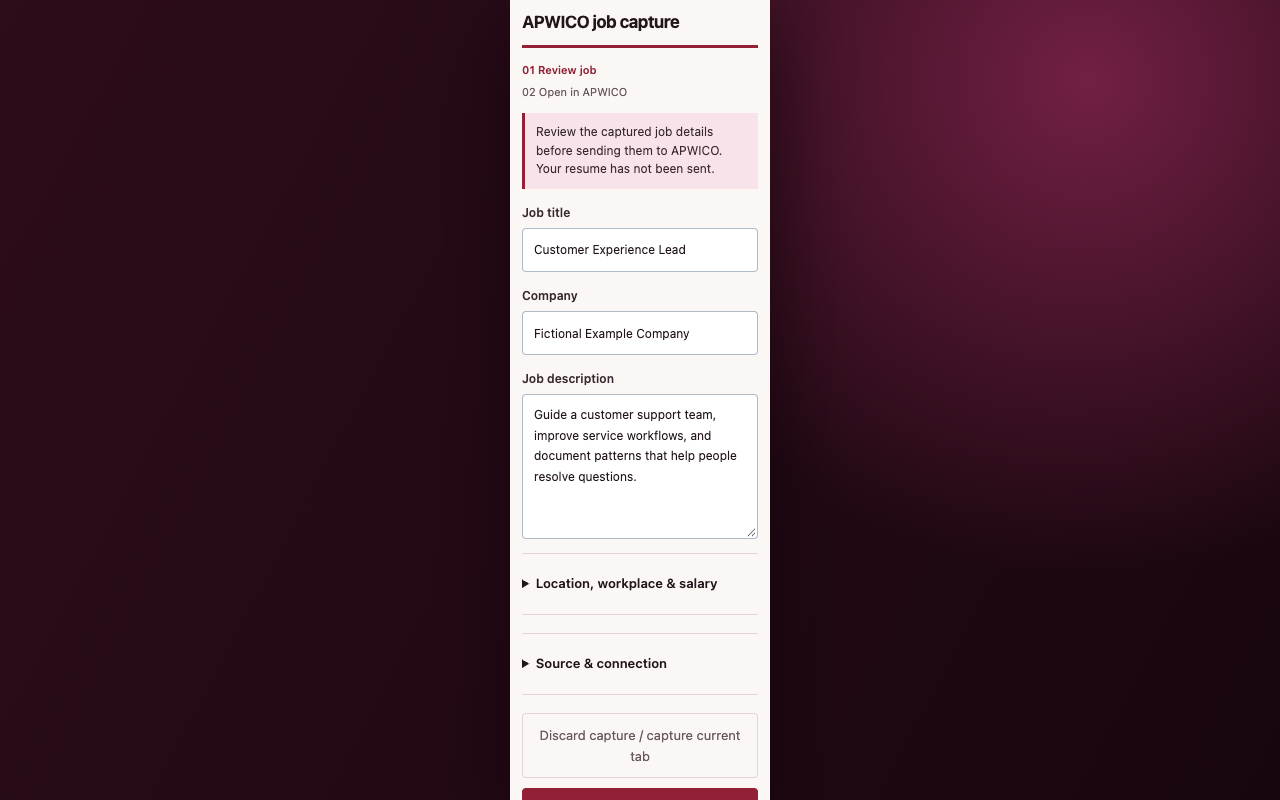
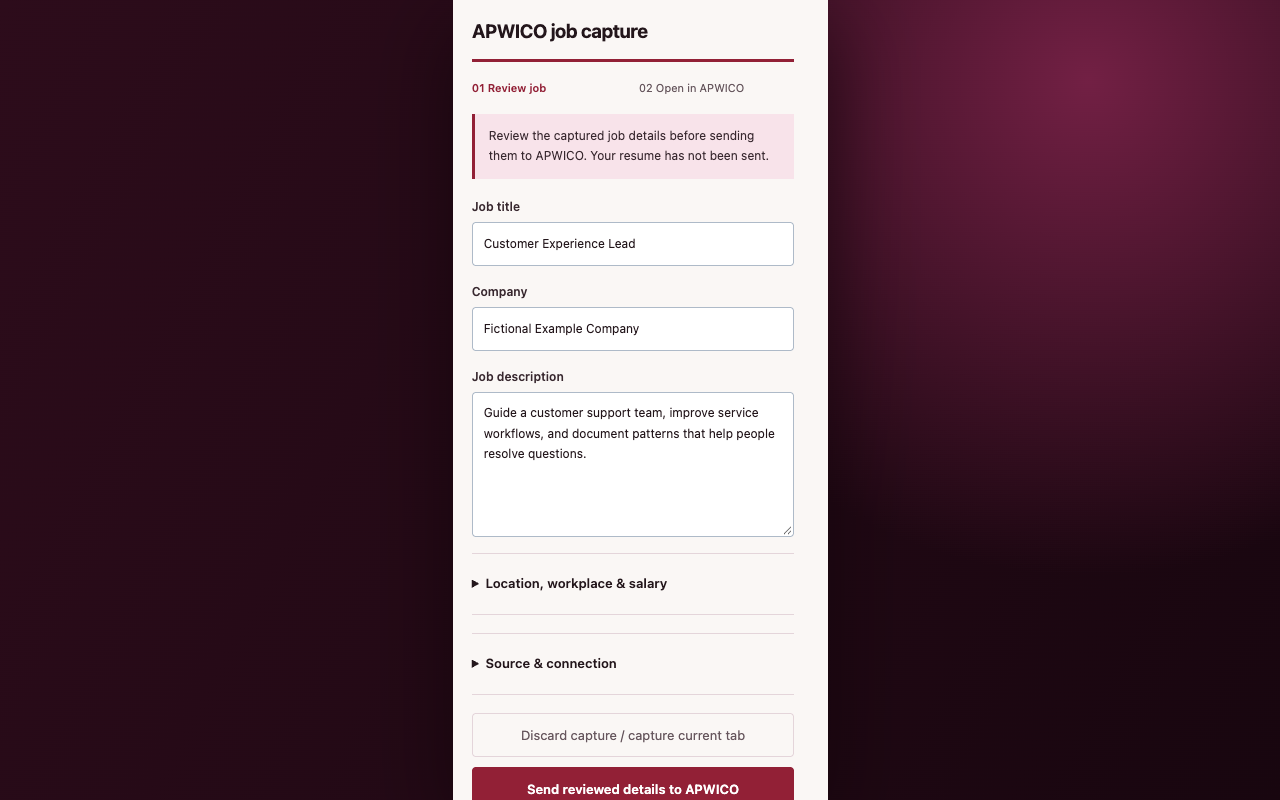
fix: correct Chrome action popup sizing

Changed region(s): [[0.3438, 0.0, 0.6562, 1.0]]

diff --git a/tests/extension/installed.spec.ts b/tests/extension/installed.spec.ts
@@ -1,9 +1,10 @@
 import {test,expect,chromium} from '@playwright/test';
 import AxeBuilder from '@axe-core/playwright';
+import {writeFile} from 'node:fs/promises';
 import {resolve} from 'node:path';
 import type {ExtractResult} from '../../apps/extension/src/lib/types';
 
-test('popup remains usable at realistic narrow Chrome side-panel widths',async()=>{
+test('popup remains usable at its bounded Chrome action width',async()=>{
  const extensionPath=resolve('apps/extension');
  const context=await chromium.launchPersistentContext('',{channel:'chromium',headless:true,args:[`--disable-extensions-except=${extensionPath}`,`--load-extension=${extensionPath}`]});
  try {
@@ -11,7 +12,7 @@ test('popup remains usable at realistic narrow Chrome side-panel widths',async()
   const id=new URL(worker.url()).host;
   const popup=await context.newPage();
   await popup.goto(`chrome-extension://${id}/popup.html`);
-  for(const width of [160,180,220,260,320,360]){
+  for(const width of [360,400]){
    await popup.setViewportSize({width,height:720});
    await expect(popup.getByRole('heading',{name:'APWICO job capture'})).toBeVisible();
    await expect(popup.locator('.notice')).toBeVisible();
@@ -33,15 +34,92 @@ test('popup remains usable at realistic narrow Chrome side-panel widths',async()
    });
    expect(layout.scrollWidth).toBeLessThanOrEqual(layout.viewport);
    expect(layout.headingHeight).toBeLessThan(60);
-   expect(layout.inputWidth).toBeGreaterThanOrEqual(width-40);
-   expect(layout.buttonWidth).toBeGreaterThanOrEqual(width-40);
+   expect(layout.inputWidth).toBeGreaterThanOrEqual(320);
+   expect(layout.buttonWidth).toBeGreaterThanOrEqual(320);
    expect(layout.buttonHeight).toBeGreaterThanOrEqual(44);
-   if(width===160) await popup.screenshot({path:'/tmp/apwico-extension-side-panel-160.png',fullPage:true});
-   if(width===320) await popup.screenshot({path:'/tmp/apwico-extension-side-panel-320.png',fullPage:true});
+   if(width===360) await popup.screenshot({path:'/tmp/apwico-extension-popup-360.png',fullPage:true});
   }
   await popup.getByLabel('Job title',{exact:true}).focus();
   await expect(popup.getByLabel('Job title',{exact:true})).toBeFocused();
   expect((await new AxeBuilder({page:popup}).analyze()).violations).toEqual([]);
+ } finally {await context.close();}
+});
+
+test('toolbar popup declares a usable intrinsic Chrome action width', async () => {
+ const extensionPath=resolve('apps/extension');
+ const context=await chromium.launchPersistentContext('',{channel:'chromium',headless:true,args:[`--disable-extensions-except=${extensionPath}`,`--load-extension=${extensionPath}`]});
+ try {
+  const worker=context.serviceWorkers()[0] || await context.waitForEvent('serviceworker');
+  const id=new URL(worker.url()).host;
+  const popup=await context.newPage();
+  await popup.goto(`chrome-extension://${id}/popup.html`);
+  const intrinsic=await popup.evaluate(()=>{
+   const html=getComputedStyle(document.documentElement);
+   const body=document.body.getBoundingClientRect();
+   return {declaredWidth:html.width,bodyWidth:body.width};
+  });
+  expect(intrinsic.declaredWidth).toBe('360px');
+  expect(intrinsic.bodyWidth).toBe(360);
+  await expect(popup.locator('input').first()).toHaveCSS('min-width','0px');
+  await expect(popup.locator('button').last()).toHaveCSS('min-width','0px');
+ } finally {await context.close();}
+});
+
+test('real Chrome toolbar action opens a readable popup instead of min-content collapse', async () => {
+ const extensionPath=resolve('apps/extension');
+ const context=await chromium.launchPersistentContext('',{channel:'chromium',headless:true,args:['--enable-unsafe-extension-debugging',`--disable-extensions-except=${extensionPath}`,`--load-extension=${extensionPath}`]});
+ try {
+  const worker=context.serviceWorkers()[0] || await context.waitForEvent('serviceworker');
+  const id=new URL(worker.url()).host;
+  const url='https://job-boards.greenhouse.io/example/jobs/123';
+  await context.route(url,route=>route.fulfill({contentType:'text/html',body:'<h1>Controlled job</h1>'}));
+  await context.route('https://boards-api.greenhouse.io/**',route=>route.fulfill({contentType:'application/json',headers:{'access-control-allow-origin':'*'},body:JSON.stringify(route.request().url().includes('/jobs/')?{id:123,title:'Toolbar support role',content:'<p>Support customers.</p>'}:{name:'Example'})}));
+  const fixture=await context.newPage(); await fixture.goto(url); await fixture.bringToFront();
+  const browser=context.browser(); if(!browser) throw new Error('Expected a browser for toolbar verification');
+  const cdp=await browser.newBrowserCDPSession();
+  const tabs=(await cdp.send('Target.getTargets',{filter:[{type:'tab'}]})).targetInfos;
+  const tab=tabs.find(target=>target.url===url); if(!tab) throw new Error('Expected controlled job tab');
+  await cdp.send('Extensions.triggerAction',{id,targetId:tab.targetId});
+  let popupTarget;
+  for(let attempt=0;attempt<50&&!popupTarget;attempt++){
+   popupTarget=(await cdp.send('Target.getTargets')).targetInfos.find(target=>target.url===`chrome-extension://${id}/popup.html`);
+   if(!popupTarget) await new Promise(resolve=>setTimeout(resolve,100));
+  }
+  if(!popupTarget) throw new Error('Expected the real Chrome action popup target');
+  const {sessionId}=await cdp.send('Target.attachToTarget',{targetId:popupTarget.targetId,flatten:false});
+  let commandId=0;
+  const send=async<T>(method:string,params:Record<string,unknown>={}):Promise<T>=>{
+   const id=++commandId;
+   const response=new Promise<T>((resolve,reject)=>{
+    const listener=(event:{sessionId:string;message:string})=>{
+     if(event.sessionId!==sessionId)return;
+     const message=JSON.parse(event.message);
+     if(message.id!==id)return;
+     cdp.off('Target.receivedMessageFromTarget',listener);
+     if(message.error)reject(new Error(message.error.message)); else resolve(message.result as T);
+    };
+    cdp.on('Target.receivedMessageFromTarget',listener);
+   });
+   await cdp.send('Target.sendMessageToTarget',{sessionId,message:JSON.stringify({id,method,params})});
+   return response;
+  };
+  type PopupLayout={title?:string;innerWidth:number;outerWidth:number;scrollWidth:number;headingHeight?:number;inputWidth?:number;buttonWidth?:number};
+  let layout:PopupLayout|undefined;
+  for(let attempt=0;attempt<50&&!layout?.title;attempt++){
+   const evaluated=await send<{result:{value:PopupLayout}}>('Runtime.evaluate',{expression:`(()=>{const input=document.querySelector('input');const submit=document.querySelector('button[type="submit"]');return{title:input?.value,innerWidth,outerWidth,scrollWidth:document.documentElement.scrollWidth,headingHeight:document.querySelector('h1')?.getBoundingClientRect().height,inputWidth:input?.getBoundingClientRect().width,buttonWidth:submit?.getBoundingClientRect().width}})()`,returnByValue:true});
+   layout=evaluated.result.value;
+   if(!layout?.title)await new Promise(resolve=>setTimeout(resolve,100));
+  }
+  expect(layout?.title).toBe('Toolbar support role');
+  if(!layout)throw new Error('Expected popup layout');
+  expect(layout.innerWidth).toBeGreaterThanOrEqual(320);
+  expect(layout.innerWidth).toBeLessThanOrEqual(400);
+  expect(layout.scrollWidth).toBeLessThanOrEqual(layout.innerWidth);
+  expect(layout.headingHeight).toBeLessThan(60);
+  expect(layout.inputWidth).toBeGreaterThanOrEqual(280);
+  expect(layout.buttonWidth).toBeGreaterThanOrEqual(280);
+  const screenshot=await send<{data:string}>('Page.captureScreenshot',{format:'png',captureBeyondViewport:false});
+  await writeFile('/tmp/apwico-extension-024-real-toolbar-popup.png',Buffer.from(screenshot.data,'base64'));
  } finally {await context.close();}
 });
 

diff --git a/apps/extension/popup.css b/apps/extension/popup.css
@@ -1,6 +1,13 @@
 :root{--ink:#23161b;--text:#38282f;--muted:#66565d;--action:#922036;--action-hover:#701528;--line:#e4d5da;--canvas:#faf7f5;--blush:#f8e3ea}
 *{box-sizing:border-box}
-html,body{width:100%;min-width:0;max-width:100%;margin:0;overflow-x:hidden}
+/*
+ * This is a Chrome toolbar action popup, not a resizable side-panel document.
+ * A percentage-only root has no intrinsic inline size while Chrome is calculating
+ * the popup window, so 0.2.3 collapsed to its min-content width (~110px). Give
+ * Chrome a bounded preferred viewport; all descendants remain fluid inside it.
+ */
+html{width:360px;min-width:0;margin:0;overflow-x:hidden}
+body{width:100%;min-width:0;margin:0;overflow-x:hidden}
 body{font:13px/1.6 -apple-system,BlinkMacSystemFont,"Segoe UI",sans-serif;color:var(--text);background:var(--canvas);overflow-wrap:break-word;word-break:normal}
 #app{width:100%;min-width:0;padding:clamp(12px,5vw,20px)}
 h1{font-size:19px;line-height:1.3;letter-spacing:-.5px;margin:0 0 18px;padding:0 0 16px;border-bottom:3px solid var(--action);color:var(--ink)}

diff --git a/docs/redesign/VALIDATION_PENDING_RECONCILIATION_2026-10-05.md b/docs/redesign/VALIDATION_PENDING_RECONCILIATION_2026-10-05.md
@@ -37,7 +37,7 @@ not failed validation.
 | 20. Sign-in/recovery continuation | Content-free continuation survives sign-in/recovery, including a genuine new-tab provider link; account changes fail closed and cannot restore another owner's object. | The bounded cleanup is live. A fresh real recovery email displayed APWICO, opened the production new-password flow in a new tab and left no consumed `code` in the visible URL. Supabase SMTP reloaded with sender name APWICO; owner-switch and continuation automation remains green. | **COMPLETE.** Provider identity, real new-tab return and URL cleanup are now verified. |
 | 21. Document/storage concepts | People can distinguish master versus job-specific documents and local versus account-saved state, including naming and active-state cues. | On a physical iPhone after deployment, the owner identified the active master and browser-session storage without coaching. The isolated sample then demonstrated—and the owner understood—that tailoring creates a separate fictional version while its master remains unchanged. | **COMPLETE.** The corrected production state passes normal-person comprehension. |
 | 22. Responsive/accessibility workflow | Critical workflows are keyboard, focus, zoom, reduced-motion, narrow-screen and assistive-technology usable without obscured or overflowing controls. | Existing keyboard, focus, error/status, zoom, reduced-motion, viewport and axe evidence remains valid. Physical iPhone layout passed, and real VoiceOver announced the active master, browser-session storage and primary editing controls in usable order without trapping. | **COMPLETE.** Physical and assistive-technology evidence now supplements the automated gates. |
-| 37. Public extension experience | The APWICO extension package/listing accurately describes published behavior and a verified public install URL/version is available. | Google approved and publicly serves 0.2.3 with the verified APWICO Wine + Blush listing assets. The Store installation is enabled, permissions/privacy match, and supported Greenhouse capture populated title, company and description. A real 2026-10-10 Chrome check nevertheless reproduced pathological wrapping in the actual narrow action panel, including the unsupported-site state. | **VALIDATION PENDING.** Publication is complete, but the real installed narrow-panel experience still fails production-quality validation. |
+| 37. Public extension experience | The APWICO extension package/listing accurately describes published behavior and a verified public install URL/version is available. | Google publicly serves 0.2.3. The reproduced toolbar-popup collapse is fixed and real-Chrome verified in packaged 0.2.4 with unchanged permissions/privacy, supported capture and a readable unsupported state. The Store's verified individual-trader address and phone disclosure was traced to Google Payments. | **VALIDATION PENDING.** 0.2.4 is not submitted or published, and truthful non-residential trader contacts still require owner establishment and reverification. |
 | 45. Performance | Public entry routes meet the established lab budgets and protections; representative field and low-powered-device behavior is validated without invented metrics. | Lab budgets, deferred loading, data-saver/reduced-motion and responsive gates pass. Vercel reports desktop 100/295 events and mobile 100/17 events. | **VALIDATION PENDING.** Metric-level LCP/INP/CLS and physical low-powered-device evidence remain unavailable; the small sample is not treated as failure. |
 | 51. First occupation set | The first portfolio is selected from defensible demand/product evidence, spans relevant work types and geographies, and records why each occupation was chosen. | Nine-category portfolio and dated official external evidence are documented in `G7_EVIDENCE_CLOSURE_2026-09-30.md`; Search Console is verified but still processing/no-data. | **VALIDATION PENDING.** Meaningful internal/Search Console demand evidence has not matured; no ranking is invented. |
 | 52. Occupation hubs | Initial hubs provide reviewed, occupation-specific evidence guidance, examples, templates and product entry without invented requirements or credentials. | Nine substantive sourced/indexable hubs pass content, route, expiry, accessibility and responsive checks. | **VALIDATION PENDING.** Qualified occupation/regulator review is not recorded. |
@@ -51,7 +51,8 @@ the blueprint work itself requires real advisors, partner agreements, an institu
 pilot and a preregistered adequately sampled research result. Those are legitimate
 post-launch programs and are not release blockers. There is no current **BLOCKED** task;
 Task 37 is no longer awaiting external review. It remains validation pending because
-the approved public 0.2.3 package still fails the real installed narrow-panel check.
+the verified 0.2.4 correction is not submitted/published and the public trader-contact
+privacy issue requires truthful owner-controlled replacement contact details.
 
 ## Evidence index
 
@@ -72,5 +73,6 @@ the approved public 0.2.3 package still fails the real installed narrow-panel ch
 
 ## Next actionable validation
 
-Task 37 is the next directly actionable item: correct the reproduced real-Chrome narrow
-action-panel layout, publish a verified patch, and repeat the installed public-version check.
+Task 37 is the next directly actionable item: establish truthful non-residential trader
+contacts, update/reverify them, submit 0.2.4 when authorized, and repeat the installed
+public-version check after Google approval.

diff --git a/docs/redesign/BLUEPRINT_STATUS.md b/docs/redesign/BLUEPRINT_STATUS.md
@@ -20,7 +20,7 @@ Every task is included exactly once:
 - **NOT STARTED (0):** none.
 - **BLOCKED (0):** none.
 
-Tasks 5, 46, 56 and 64 closed after the first live analytics/search/provider review, repeated production release validation, and verification of the current U.S.-only Stripe boundary. Tasks 58–61 are now Partial: operating structures and materials exist, but real advisors, agreements, institutional pilots, samples and research results do not. Task 37 remains Validation Pending: Google approved and publicly published APWICO Job Capture 0.2.3, but the 2026-10-10 real installed-extension check reproduced pathological wrapping at the actual narrow Chrome action-panel width. Public installation and supported Greenhouse capture work, but the published narrow-panel experience does not yet satisfy the task.
+Tasks 5, 46, 56 and 64 closed after the first live analytics/search/provider review, repeated production release validation, and verification of the current U.S.-only Stripe boundary. Tasks 58–61 are now Partial: operating structures and materials exist, but real advisors, agreements, institutional pilots, samples and research results do not. Task 37 remains Validation Pending: Google approved and publicly published APWICO Job Capture 0.2.3, but the 2026-10-10 real installed-extension check reproduced pathological wrapping. The intrinsic popup-width defect is corrected and real-Chrome verified in packaged 0.2.4, which is not submitted. The Store's required trader disclosure also publicly exposes the verified individual address and phone until truthful non-residential business contacts are established and reverified.
 
 The first 2026-10-05 reconciliation changed no counts and reconfirmed Tasks 1 and 4 as Complete. The subsequent consolidated real-world session closed Task 19 and found three genuine Task 20–22 issues: a consumed recovery code retained in the URL, a legacy recovery-email sender name, and an overlapping mobile document-identity panel. All three are now resolved in production. A fresh recovery link returned in a new tab with no consumed `code` in the address bar and the provider sender name was changed and reloaded as APWICO. On a physical iPhone, the owner correctly identified the active master and browser-session storage, understood from the isolated sample that job tailoring leaves the master unchanged, and passed a real VoiceOver traversal of the active-document panel and primary editing controls.
 
@@ -57,7 +57,7 @@ The first 2026-10-05 reconciliation changed no counts and reconfirmed Tasks 1 an
 | 32. Requirement-level Match | COMPLETE | Grouped source wording/evidence/status and stale-analysis handling pass server/database and private-route browser checks. |
 | 33. Free evidence continuation | COMPLETE | The explicitly reviewed job text—not resume text—is kept in bounded session storage and re-enters the shared review path before account save. |
 | 34–36. Decision and application workflow | COMPLETE | Owner-scoped decisions, manual application history, notes/contact and opt-in workspace follow-up dates pass database/unit and private-route browser coverage. |
-| 37. Public extension experience | VALIDATION PENDING | Google approved and publicly serves APWICO-branded MV3 version 0.2.3 with the verified Wine + Blush icon, screenshot and promo tile. The public Store installation is enabled under the published ID, permissions/privacy match the package and supported Greenhouse capture populates title, company and description. However, a real 2026-10-10 Chrome action-panel check at the browser's actual narrow width still wraps headings, labels and the unsupported-site message pathologically, so the public experience is not yet production-quality. |
+| 37. Public extension experience | VALIDATION PENDING | Google publicly serves APWICO-branded MV3 0.2.3. Packaged 0.2.4 fixes the percentage-only intrinsic toolbar-popup sizing defect and passes real-Chrome toolbar, supported-capture, unsupported-state, accessibility, permission/privacy and package checks without expanding permissions. It is not submitted. The verified individual-trader address and phone also remain public until the owner establishes truthful non-residential business contacts and authorizes Google Payments/trader reverification. |
 | 38–44. Public technical foundations | COMPLETE | Permanent capability/template URLs, narrow visible-content schema, explicit sitemap dates, per-route social cards, local fonts and cache/bundle contracts pass generation, source and route-policy checks. |
 | 45. Performance | VALIDATION PENDING | Lab budgets and low-power/data-saver/reduced-motion behavior pass. Vercel reports a 100 real-experience score for the available desktop and mobile samples, but metric-level LCP/INP/CLS and physical low-power validation remain unavailable. |
 | 46. Recurring quality | COMPLETE | The integrated quality gate has run repeatedly before and after release, including production smoke/error/provider checks; it remains the recurring release contract. |

diff --git a/docs/redesign/TASK_37_EXTENSION_024_CORRECTION_2026-10-10.md b/docs/redesign/TASK_37_EXTENSION_024_CORRECTION_2026-10-10.md
@@ -1,0 +1,58 @@
+# Task 37 — public-contact and 0.2.4 correction evidence
+
+Status: **VALIDATION PENDING**. APWICO Job Capture 0.2.3 remains the published
+version. Version 0.2.4 is packaged and verified locally but has not been uploaded or
+submitted.
+
+## Public developer information
+
+The public Store listing exposes the verified individual trader's legal name, street
+address and phone number. The Chrome Web Store publisher settings confirm that these
+values come from the publisher's verified Google Payments profile, not from the
+extension package or APWICO website.
+
+Chrome's trader-verification policy requires a trader's legal name, contact address and
+SMS-capable phone number to be public. The address can be replaced with another truthful,
+verifiable address in the same country through Google Payments. Changing the name,
+country or phone requires restarting trader verification. Reclassifying the account as
+non-trader would be a legal declaration and is not an acceptable privacy workaround.
+
+No repository or dashboard change can legitimately remove these disclosures while the
+publisher remains a verified trader. Closure requires the owner to provide or establish
+a real non-residential business/service address and an SMS-capable business phone number
+that the owner controls, then authorize the corresponding Payments-profile and trader-
+verification updates. No legal verification value was changed during this audit.
+
+## UI root cause and correction
+
+The extension is a Chrome toolbar action popup (`action.default_popup`), not a Chrome
+Side Panel API surface. Version 0.2.3 changed the popup root to percentage-only sizing.
+During Chrome's intrinsic popup-window calculation that left no preferred inline size,
+so Chrome collapsed the action UI to min-content width. `max-width: 100vw` reproduces the
+same circular sizing failure and is not a valid correction.
+
+Version 0.2.4 gives the action popup a bounded 360px preferred document width while every
+field, disclosure and button remains fluid within that viewport. No permission, host,
+privacy, extraction, delivery, storage or APWICO destination behavior changed.
+
+## Verification
+
+- Real Chrome toolbar invocation against a controlled Greenhouse page: PASS. The
+  packaged popup opened at 375px viewport / 360px body, with no horizontal overflow;
+  the first input and primary button were each 322.5px wide.
+- Supported capture: PASS. Title, company and job description populated through the real
+  toolbar `activeTab` path.
+- Unsupported/manual state: visually inspected at 360px; copy, inputs, disclosures and
+  actions remain readable with normal vertical scrolling.
+- Targeted action-popup layout and accessibility checks: 3/3 PASS.
+- Extraction, structured-data and destination-boundary regression set: 21/21 PASS.
+- Package allowlist/security/store-asset suite: 4/4 PASS (package inspection plus three
+  artifact tests). Production manifest remains limited to `activeTab`, `scripting`,
+  `storage`, `alarms` and the existing two APWICO/legacy app hosts.
+- Packaged real-Chrome toolbar check: PASS. Candidate version is exactly 0.2.4.
+- Refreshed 1280×800 Store screenshot uses the actual corrected popup width and the
+  existing Wine + Blush identity. Icon and promo geometry/identity are unchanged.
+
+The ordinary parallel extension run encountered the repository's known cold local-server
+timeouts; the bounded serial and real-toolbar checks above passed. No Store upload,
+submission, publication, unpublishing or main-site change occurred.

diff --git a/HANDOFF.md b/HANDOFF.md
@@ -4366,3 +4366,20 @@ closed-vocabulary diagnostic omission for account-master deletion. The remaining
   performed. See `docs/public-matcher-corrective-patch-2026-10-07.md`.
 - Verification: public tool unit/browser 18/18; focused matcher 34/34; full server
   457/457; complete release gate 13/13; Graphify rebuilt 3,410 nodes / 7,091 edges.
+## October 10 — Task 37 version 0.2.4 prepared; public trader contacts need owner action
+
+The Chrome Web Store listing and publisher settings were audited read-only. The public
+listing exposes the verified individual trader's legal name, residential address and phone;
+the dashboard confirms these values come from the Google Payments verification profile.
+Chrome requires trader address and phone disclosures. No legal/trader/profile value was
+changed. A truthful non-residential business/service address and owner-controlled SMS-capable
+business phone are required before the owner authorizes Payments-profile/reverification work.
+
+The 0.2.3 layout regression was traced to percentage-only root sizing on a toolbar action
+popup, which gave Chrome no intrinsic width and collapsed to min-content. Candidate 0.2.4
+uses a bounded 360px preferred popup width with fluid internal controls. The packaged real
+Chrome toolbar path measured a 375px viewport/360px body with no horizontal overflow and
+322.5px inputs/actions. Targeted layout/accessibility 3/3, capture/boundary 21/21 and package
+security/assets 4/4 pass. The refreshed Store screenshot reflects the real popup width.
+Nothing was uploaded or submitted; 0.2.3 remains public and Task 37 remains Validation
+Pending. Full evidence: `docs/redesign/TASK_37_EXTENSION_024_CORRECTION_2026-10-10.md`.

diff --git a/docs/EXTENSION_STORE_READINESS.md b/docs/EXTENSION_STORE_READINESS.md
@@ -1,5 +1,13 @@
 # Chrome Web Store readiness — APWICO Job Capture 0.2.3
 
+> **2026-10-10 correction:** Google published 0.2.3, but real Chrome verification
+> reproduced the collapsed toolbar-action popup. Candidate 0.2.4 fixes the actual
+> percentage-only intrinsic-width cause, passes real packaged-Chrome verification and
+> is ready for a separately authorized upload/submission. It has not been submitted.
+> The public verified-trader address and phone originate in Google Payments and require
+> truthful owner-controlled replacement contacts plus reverification; see
+> `redesign/TASK_37_EXTENSION_024_CORRECTION_2026-10-10.md`.
+
 Updated 2026-10-06. Version 0.2.3 was submitted to Chrome Web Store review on
 2026-10-06 with automatic publication selected after approval. Google review is
 pending. The existing published 0.2.2 listing remains available, but is not

diff --git a/apps/extension/README.md b/apps/extension/README.md
@@ -1,8 +1,8 @@
-# APWICO Job Capture — V1 candidate 0.2.2
+# APWICO Job Capture — prepared candidate 0.2.4
 
-Unpublished integration candidate. **No deployment or Chrome Web Store submission.**
-The app, API and migration in this change must be released together in a later authorized
-release. A package pointing at production does not make this source available there.
+Version 0.2.3 is published in the Chrome Web Store. Candidate 0.2.4 corrects the
+real-Chrome toolbar-popup intrinsic-width collapse and is packaged locally, but has not
+been uploaded or submitted. A separately authorized Store submission is still required.
 
 Click the extension on a public job page → review/edit the fields → send to APWICO
 → sign in there if necessary → **Save job and see how I match** → normal Saved Jobs /
